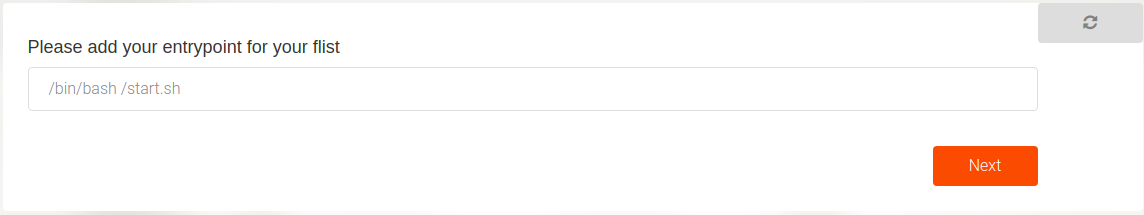
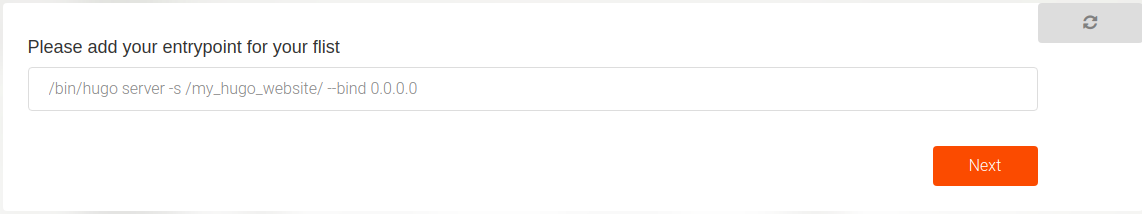
Getting started deploy website and expose with webgateway manual

diff --git a/src/2_gettingstarted/getting_started_website_deploy/getting_started_website_deploy.md b/src/2_gettingstarted/getting_started_website_deploy/getting_started_website_deploy.md
@@ -49,46 +49,39 @@ echo 'theme = "ananke"' >> config.toml
 ```
 
 We will now have the folder `my_hugo_website` created with the following structure
-    ![hugo_structure](hugo_structure.png)
+
+![hugo_structure](hugo_structure.png)
 
 We can then add our content under the contents directory or using hugo commands. To test locally just start the server and access it from the browser at  `http://localhost:1313`.
 
 ```
 hugo new posts/my-first-post.md
 # start the server
-hugo server -D
+hugo server -s /my_hugo_website/
 ```
 
 ### Create flist with website content
 
 We are now ready to create our flist. An [flist]() (file list) is an archive to store metadata about a filesystem and can be used on the grid to deploy a container with its contents. The flist should include a startup file as well to indicate if there are any commands to be done once a container is created. In our case we will want to start the hugo server.
 
-We will start by preparing a compressed folder with the hugo binary, the new website we just created, and the startup:
+We will start by preparing a compressed folder with hugo binary and the new website we just created:
 
 - `bin/hugo`
 - `my_hugo_website/`
-- `start.sh`
 
- We can simply create an flist by compressing the contents and uploading them onto the [hub](https://hub.grid.tf/upload) for conversion. We will need to include our startup file that will be used as an entry point in the folder as well. The startup file will be a simple bash file with the following commands to start the server
+We can simply create an flist by compressing the contents and uploading them onto the [hub](https://hub.grid.tf/upload) for conversion.
 
-```bash
-#!/bin/sh
-
-cd my_hugo_website
-/bin/hugo server -D
-```
-
-Now you are ready to tar the contents using 
+First you need to tar the contents using
 
 ```bash
-tar -czvf my_website_flist_3.tar.gz -C hugo_flist .
+tar -czvf my_website_flist.tar.gz -C hugo_flist .
 ```
 
-and upload the it to the [hub](https://hub.grid.tf/upload) once you log in with your 3bot app successfully
+and then upload it to the [hub](https://hub.grid.tf/upload) once you log in with your 3bot app successfully
 
 ![my website flist upload](my_website_flist_upload.png)
 
-Once the upload is complete we now have an flist ready to be used. The flist url we will be using is the source which in our example is
+Once the upload is complete we now have an flist ready to be used. The flist url we will be need is the source which is usually in the following format
     `https://hub.grid.tf/YOUR_3BOT_NAME.3bot/my_website_flist.flist`
 
 ![my website flist upload success](my_website_flist_upload_success.png)
@@ -101,7 +94,10 @@ Now that we have our flist ready, we are prepared to deploy a container on the g
 - You have tokens that will be used for payment
 - You have a deployed network
 
-If any of the previous items is not satisfied you can make sure of them by checking [Deploy your first solution guide](getting_started_first_solution.md). Once you have your network ready we can move on to deploying your container.
+If any of the previous items is not satisfied you can make sure of them by checking [Deploy your first solution guide](getting_started_first_solution.md). Once you have your network ready we can move on to deploying your container using the generic flist deploy wizard.
+To start the wizard click the left menu on Solutions then Generic flist
+
+![Solutions menu](full_adminmenu.png)
 
 1. The first step to deploy the container is to choose the network on which you want to deploy your container. Use the same name you entered previously when creating the network
 
@@ -121,7 +117,8 @@ If any of the previous items is not satisfied you can make sure of them by check
 5. You will then be asked if you want corex running. Since we want the container to be interactive and can be accessed through ssh, then we will disable it and choose `NO`. If enabled, the container will not be accessible through ssh.
     ![Disable corex](my_first_website_corex.png)
 
-6. You now need to provide the entrypoint the container will start with which includes the file you added in your flist to start the server
+6. You now need to provide the entrypoint the container will start with which is the following command to start the server:
+`/bin/hugo server -s /my_hugo_website/ --bind 0.0.0.0`
     ![add entrypoint](my_first_website_entrypoint.png)
 
 7. You can pass any other environment variables that will be used by the flist startup as well incase you chose a different server with different configurations. In this tutorial we don't need to pass anything so you can leave it empty.
@@ -139,14 +136,67 @@ If any of the previous items is not satisfied you can make sure of them by check
 
 10. You can now choose an IP address that will be given to your container in your network. This is the ip address you will be using to access the container.
 
-    ![Choose IP](ubuntu_ip.png)
+    ![Choose IP](my_first_Website_ip.png)
 
 11. Then read carefully the options you selected previously until this point in the chatflow and confirm them by clicking next to proceed with the payment.
+    ![summary](my_first_website_summary.png)
 
 12. Now that you have chosen all the resources and details required, you will need to proceed with the payment for the solution that will be deployed. As previously mentioned, you will have your wallet setup and funded with an amount of the currency you chose your network with. The following overview will show the price of the deployment and the details regarding the address to be payed to. By clicking on the wallet you will pay with and then next then you accept the payment to be automatically done from it.
 
     ![Payment](ubuntu_payments.png)
 
-Once the deployment is successful you should have a container running with the hugo server started to serve your files on port _1313_. In the following section we will configure the web gateway to expose the website to be able to access it.
+Once the deployment is successful you should have a container running with the hugo server started to serve your files on port _1313_.
+
+![deploy success](website_deploy_success.png)
+
+This can be accessed using the \<IP:1313\> when wireguard is configured on your machine.
+
+![my first website access ip](my_first_website_access_ip.png)
+
+In the following section we will configure the web gateway to expose the website to be able to access it with a domain name instead.
 
 ### Expose website by configuring web gateway
+Now that the website is ready and deployed. We will need to expose it to be accessible without wireguard. We can do this by simply using the Solution expose wizard in the dashboard.
+To start the wizard click the left menu on Solutions then Solution expose
+
+![Solutions menu](full_adminmenu.png)
+1. First we will choose the type of the solution that we want exposed. Since we used a custom flist and used the flist deploy wizard then we will choose flist
+
+    ![solution expose type](solution_expose_flist.png)
+
+2. Second step we need to choose the solution deployed that we want exposed. In our case we named it _my_first_solution_ so we can simply choose that.
+
+    ![solution expose choose](solution_expose_choose.png)
+
+3. We then need to choose the ports to be exposed whether the tls port or the port the server will be served on. Since we started hugo server on the default port we will stick to port 1313
+    ![my first website ports](my_first_website_ports.png)
+
+4. Now we need to specify the domain name that we will be registering. We can choose the option Managed Domain to simply add a subdomain to it. 
+
+    We can give the name `my_first_website`,
+
+    so that the full domain will be `http://my_first_website.grid.deboeck.xyz/`
+
+    ![my first website domain generation](my_first_website_domain_generation.png)
+
+    ![my first website subdomain](my_first_website_subdomain.png)
+
+5. The next step is to choose the expiration time of your reservation. Each capacity reservation made on the grid is always bound to an expiration date. Once the date is reached, the capacity is released back to the grid and your workloads deleted.
+
+    For this part we will choose a similar value to the expiration of the solution itself, so that the website is accessible as long as the container lives.
+
+    ![Expiration time](chatflow_expiration.png)
+
+6. Now you will need to proceed with the payment for the solution exposure. As previously mentioned, you will have your wallet setup and funded with an amount of the currency you chose your network with. The following overview will show the price of the deployment and the details regarding the address to be payed to. By clicking on the wallet you will pay with and then next then you accept the payment to be automatically done from it.
+
+    ![Payment](ubuntu_payments.png)
+
+Congratulations!
+
+Once the payment is complete you have your website ready!!
+
+![my first website full domain](my_first_website_full_domain.png)
+
+You can now access it from the browser using the full domain you registered
+
+![my website access domain](my_website_access_domain.png)
